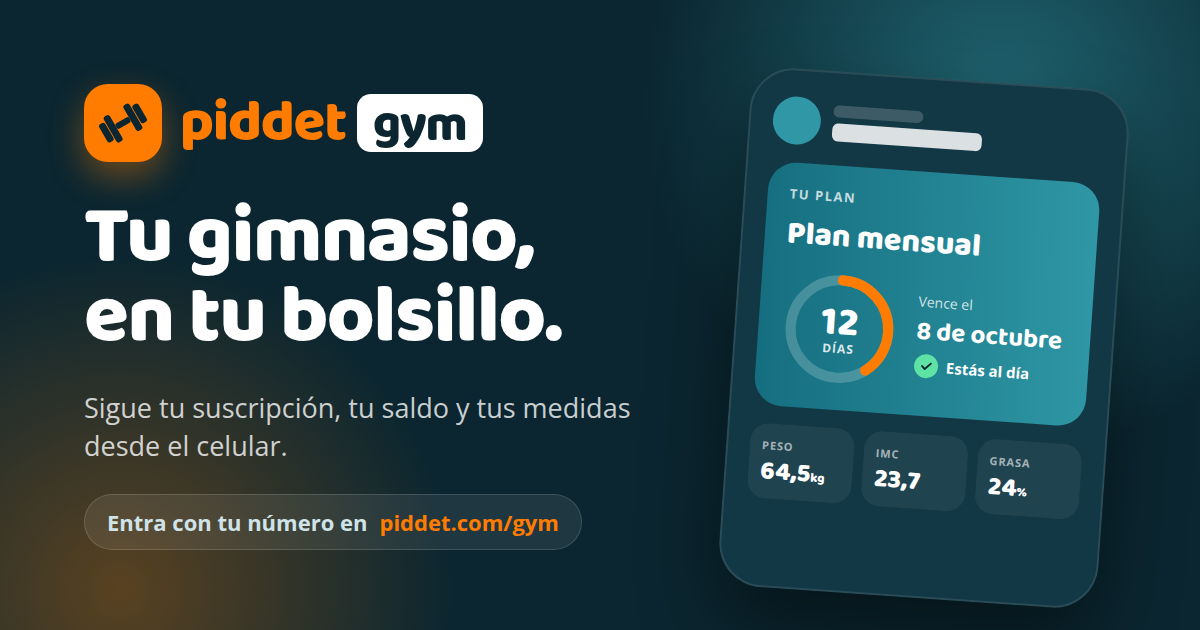
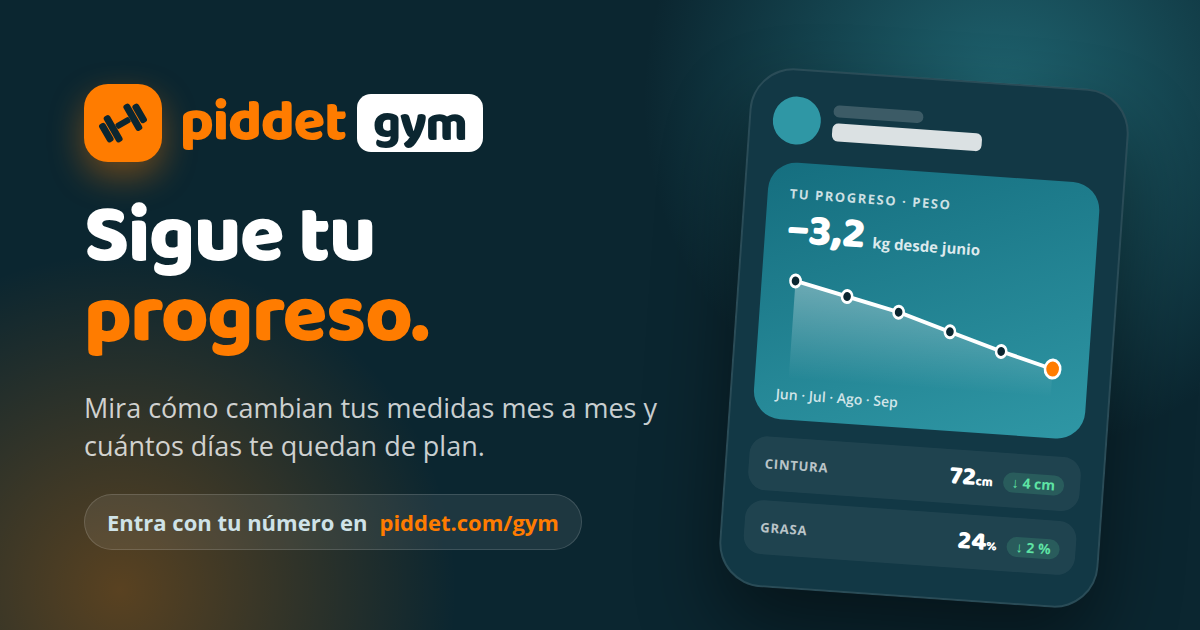
Gimnasio: mensaje "Sigue tu progreso" en la tarjeta para compartir y la entrada
La imagen de WhatsApp (public/og/piddet-gym.png, ?v=3) y sus textos le hablan al socio de su
progreso: gráfica de peso bajando y medidas que mejoran, en vez de suscripción y saldo. Título
"Sigue tu progreso · piddet gym". La entrada /gym y la tarjeta del perfil del gimnasio usan el
mismo mensaje.

Claude-Session: https://claude.ai/code/session_01Q3VxZCkwyvYrQe5ziL1SAp

diff --git a/vite.config.js b/vite.config.js
@@ -13,14 +13,14 @@ import react from '@vitejs/plugin-react';
 // y sin index.html adentro el servidor respondía 403 en vez de la app.
 const SITE = 'https://piddet.com';
 const GYM_SHARE = {
-  title: 'piddet gym · Tu gimnasio en tu bolsillo',
+  title: 'Sigue tu progreso · piddet gym',
   // ≤ 125 caracteres: más largo, WhatsApp y las redes lo cortan en el teléfono.
-  description: 'Sigue tu suscripción, tu saldo y tus medidas del gimnasio desde el celular. '
-    + 'Entra con tu número y un código por SMS.',
+  description: 'Mira cómo cambian tus medidas mes a mes y cuántos días te quedan de plan. '
+    + 'Entra con tu número.',
   url: `${SITE}/gym/`,
   // `?v=`: WhatsApp y Facebook guardan la imagen por URL; súbelo cada vez que cambie el archivo.
-  image: `${SITE}/og/piddet-gym.png?v=2`,
-  imageAlt: 'piddet gym: tu plan, los días que te quedan y tus medidas en el celular.',
+  image: `${SITE}/og/piddet-gym.png?v=3`,
+  imageAlt: 'Sigue tu progreso: tu peso y tus medidas bajando mes a mes en el celular.',
   themeColor: '#0b2630', // --portal-bg: la entrada ya abre oscura, como el portal
 };
 

diff --git a/src/screens/PublicCompany/PublicCompany.jsx b/src/screens/PublicCompany/PublicCompany.jsx
@@ -268,7 +268,7 @@ export function PublicCompany({ companyUsername }) {
                 <PiddetGymLogo size="sm" />
                 <div className={s.gymMemberCopy}>
                   <h2 id="gym-member-title" className={s.gymMemberTitle}>¿Ya eres socio de {company.name}?</h2>
-                  <p className={s.gymMemberText}>Mira tu suscripción, tu saldo y tus medidas desde el celular.</p>
+                  <p className={s.gymMemberText}>Mira tu progreso, tus medidas y tu plan desde el celular.</p>
                 </div>
                 <a className={s.gymMemberCta} href={GYM_HUB_PATH}>
                   Ver mi suscripción <i className="fas fa-arrow-right" aria-hidden="true" />

diff --git a/src/screens/public/GymPortal/GymPortalLogin.jsx b/src/screens/public/GymPortal/GymPortalLogin.jsx
@@ -194,8 +194,8 @@ export function GymPortalLogin({ company, options, onRequestCode, onVerifyCode, 
       )}
 
       <div className={s.intro}>
-        <h1 className={s.title}>Tu progreso,<br />en tu bolsillo.</h1>
-        <p className={s.lead}>Consulta tu suscripción, tu saldo y las medidas que te han tomado en el gimnasio.</p>
+        <h1 className={s.title}>Sigue tu<br />progreso.</h1>
+        <p className={s.lead}>Mira cómo cambian tus medidas y cuántos días te quedan de plan.</p>
       </div>
 
       {step === 'phone' && (

diff --git a/src/screens/public/GymPortal/GymHub.jsx b/src/screens/public/GymPortal/GymHub.jsx
@@ -97,7 +97,7 @@ export function GymHub() {
 
   React.useEffect(() => {
     const previous = document.title;
-    document.title = 'piddet gym · Tu gimnasio en tu bolsillo';
+    document.title = 'Sigue tu progreso · piddet gym';
     return () => { document.title = previous; };
   }, []);
 
